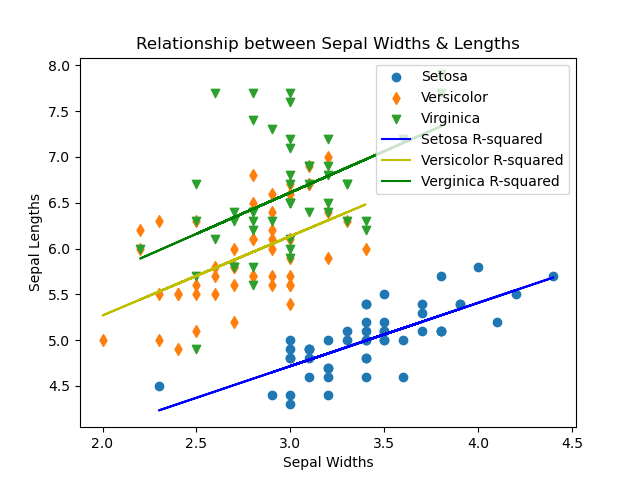
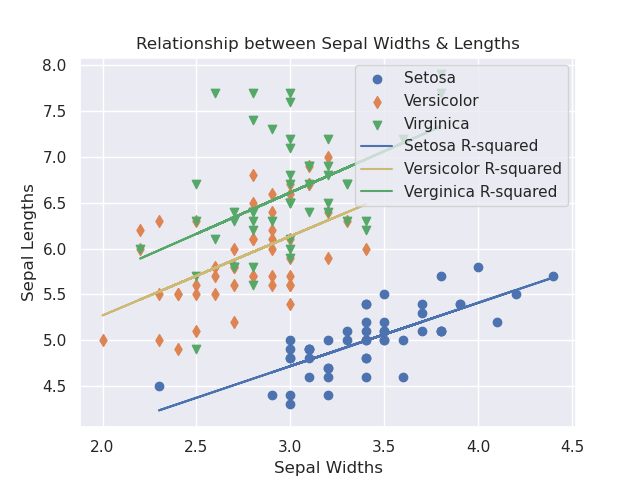
updating all my files to reflect data is collected

diff --git a/analysis.py b/analysis.py
@@ -16,6 +16,13 @@ import pandas as pd
 # sklearn is a popular machine learning library that provides tools for data preprocessing, model selection, and evaluation.
 from scipy import stats
 
+# Import seaborn
+import seaborn as sns
+
+# Apply the default theme for seaborn
+sns.set_theme()
+
+
 # first things first is to import the data set
 path = "/home/gerry/Downloads/Data_Analytics_Course/pands/pands-project/data/iris/"
 #path = "./data/iris/"
@@ -705,3 +712,15 @@ ax.legend()
 plt.title("Relationship between Sepal Widths & Lengths")
 plt.legend()
 plt.savefig("Fitted_Line_on_sepal_length_vs_sepal_width.png")
+
+# ******************************************************************************************************************************************************
+# *************************************** Add a Pairplot **********************************************************************************************
+# *****************************************************************************************************************************************************
+# the following are based on examples from https://seaborn.pydata.org/generated/seaborn.pairplot.html 
+# and https://seaborn.pydata.org/tutorial/introduction.html
+
+
+g=sns.pairplot(iris_df,  x_vars=["petal_length", "petal_width"],
+    y_vars=["sepal_length", "sepal_width"], hue="class",diag_kind="hist", markers=["o", "s", "D"], corner=True, height=1.5)
+g.add_legend(frameon=True)
+plt.savefig("pairplot.png")
